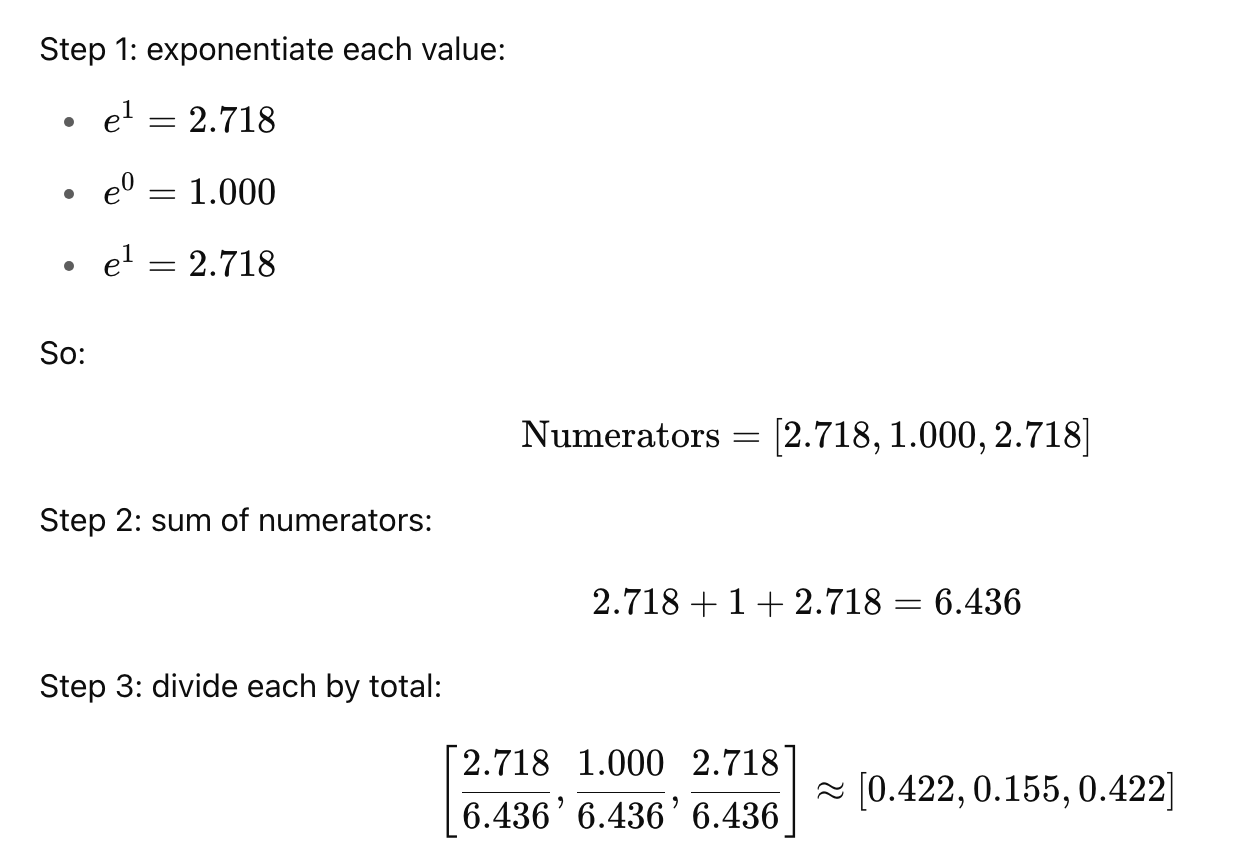
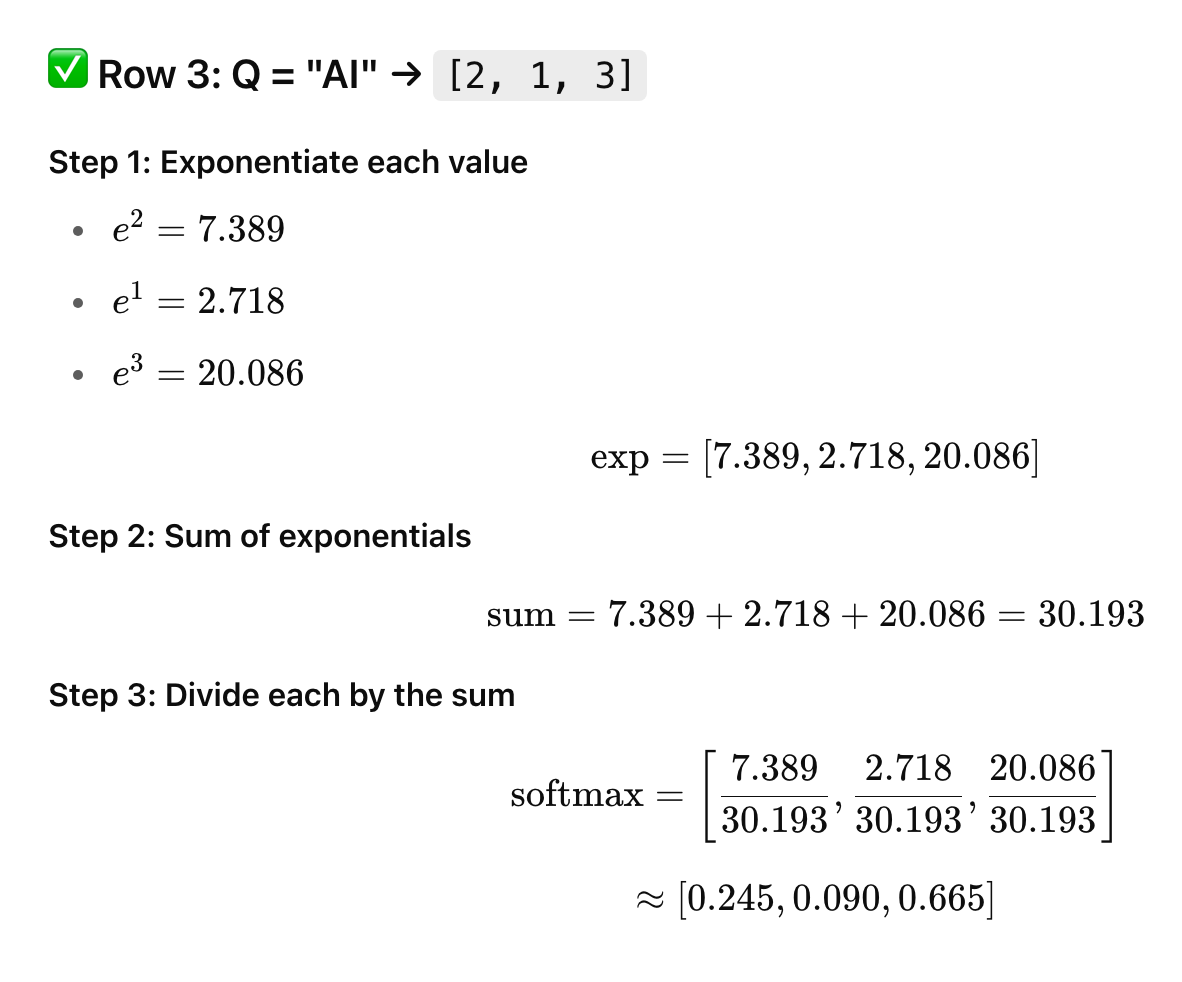
Basic

diff --git a/0.Notes/3.Understanding Self-Attention (from the ground up).md b/0.Notes/3.Understanding Self-Attention (from the ground up).md
@@ -18,7 +18,7 @@
 
 <br> <br>
 
-## 1. Tokenization
+# <> 1. Tokenization
 
 What is tokenization?
 
@@ -35,7 +35,7 @@ Each token gets a unique ID from the model's vocabulary.
 
 <br> <br> <br>
 
-## 2. Embeddings
+# <> 2. Embeddings
 What is embedding?
 
 It's a way to turn token IDs into vectors of real numbers that capture meaning.
@@ -76,7 +76,7 @@ Each token ID maps to a vector.
 These numbers start random and are learned during training so that similar words get similar vectors.
 
 
-##  How Does It Work?
+## <> How Does It Work?
 Imagine this:
 
  - You have a vocabulary of, say, 30,000 tokens (like GPT or BERT).
@@ -107,7 +107,7 @@ Words used in similar contexts get similar vectors.
 
 
 
-## 3. Queries (Q), Keys (K), Values (V)
+# <> 3. Queries (Q), Keys (K), Values (V)
 
 For each word vector (embedding), we create:
 
@@ -199,7 +199,7 @@ V = [1, 1] × W_V = [3, 3]
 
 
 
-## 4. Compute Attention Scores
+# <> 4. Compute Attention Scores
 
 We’ll now calculate how much each word should attend to every other word.
 
@@ -236,7 +236,7 @@ Result: (3 × 3) matrix = score each token gives to every token
 <br><br><br>
 
 
-## 5. Softmax Weights
+# <> 5. Softmax Weights
 
 Now, we apply Softmax to the attention scores.
 
@@ -259,12 +259,12 @@ Let’s say we take this row from earlier (for the token "I"):
 
 We apply softmax to this vector to get weights:
 
-![img.png](img.png)
 
-![img_1.png](img_1.png)
+![img_9.png](Images/img_9.png)
 
-![img_2.png](img_2.png)
+![img_10.png](Images/img_10.png)
 
+![img_11.png](Images/img_11.png)
 
 ## Softmax Attention Scores
 
@@ -282,25 +282,151 @@ These are your final softmax attention weights calculated in Step 5 (one row per
 Each row corresponds to a token acting as the query, and each column is a key. These weights tell us **how much attention each word should pay to the others (and itself).**
 
 
+<br> <br> <br> <br>
+
+
+# <> Step 6: Weighted Sum
+
+This is where we compute the output for each token.
+
+For each query (row), we:
+
+1. Take its attention weights.
+
+2. Multiply each weight by the corresponding value vector (from V).
+
+3. Add them all together (element-wise).
+
+<br>
+
+------
+
+Value Vectors:
+
+V("I") = [1, 2]
+
+V("love") = [2, 1]
+
+V("AI") = [3, 3]
+
+<br>
+
+----
+For Q = "I"
+
+**Softmax Weights: [0.422, 0.155, 0.422]**
+
+```python
+= 0.422 * [1, 2]   → [0.422, 0.844]
++ 0.155 * [2, 1]   → [0.310, 0.155]
++ 0.422 * [3, 3]   → [1.266, 1.266]
+---------------------------------------
+= [2.0, 2.265]
+```
+
+**Output for "I" = [2.0, 2.265]**
+
+<br> <br>
+
+----
+
+
+For Q = "love"
+
+**Softmax Weights: [0.212, 0.212, 0.576]**
+
+```python
+= 0.212 * [1, 2]   → [0.212, 0.424]
++ 0.212 * [2, 1]   → [0.424, 0.212]
++ 0.576 * [3, 3]   → [1.728, 1.728]
+---------------------------------------
+= [2.364, 2.364]
+```
+
+**Output for "love" = [2.364, 2.364]**
 
 
 
+<br> <br>
+
+----
+
+For Q = "AI"
+
+**Softmax Weights: [0.245, 0.090, 0.665]**
+
+```python
+= 0.245 * [1, 2]   → [0.245, 0.49]
++ 0.090 * [2, 1]   → [0.180, 0.09]
++ 0.665 * [3, 3]   → [1.995, 1.995]
+---------------------------------------
+= [2.42, 2.575]
+```
+
+**Output for "AI" = [2.42, 2.575]**
 
 
+<br> <br>
+
+----
+
+## Final Output of the Self-Attention Layer
+
+| Token  | Final Vector (after self-attention) |
+| ------ | ----------------------------------- |
+| "I"    | \[2.000, 2.265]                     |
+| "love" | \[2.364, 2.364]                     |
+| "AI"   | \[2.420, 2.575]                     |
 
 
+## What's the Intuition?
+
+These final vectors now contain contextual information — each word has been "updated" based on the words around it, weighted by how relevant they are (attention).
+
+For example:
+
+ - The word "love" pays most attention to "AI", and that’s reflected in its output vector.
+
+ - "AI" also heavily attends to itself, hence a strong self-representation.
 
 
+<br> <br> <br> <br>
 
 
+# Step 7: Position-wise Feed-Forward Network (FFN)
 
 
+For each token vector x (output of self-attention), the FFN is:
 
 
+![img_12.png](Images/img_12.png)
+Now we apply a simple two-layer neural network to each token’s vector independently.
+
+**In Our Toy Example:**
+
+Let’s take the self-attention outputs we got:
+
+```python
+W1 = [[1, -1],
+      [1,  1]]
+
+b1 = [0, 0]
+
+W2 = [[1, 0],
+      [0, 1]]
+
+b2 = [0, 0]
+```
+
+![img_14.png](Images/img_14.png)
+![img_13.png](Images/img_13.png)
 
 
-
-
+| Token  | Attention Output | FFN Output      |
+| ------ | ---------------- | --------------- |
+| "I"    | \[2.000, 2.265]  | \[4.265, 0.265] |
+| "love" | \[2.364, 2.364]  | \[4.728, 0.000] |
+| "AI"   | \[2.420, 2.575]  | \[5.000, 0.155] |
 
 
 
